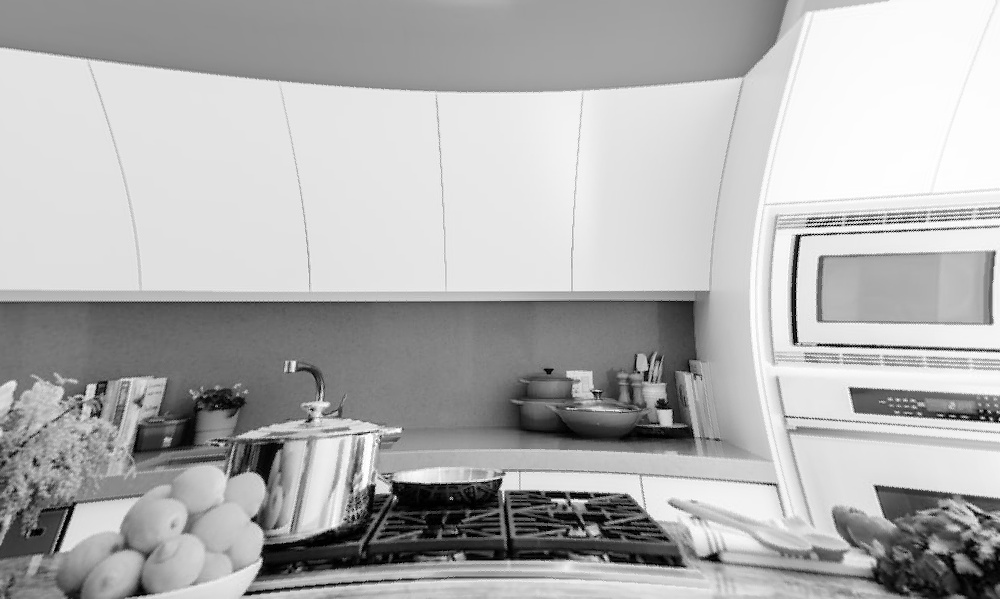
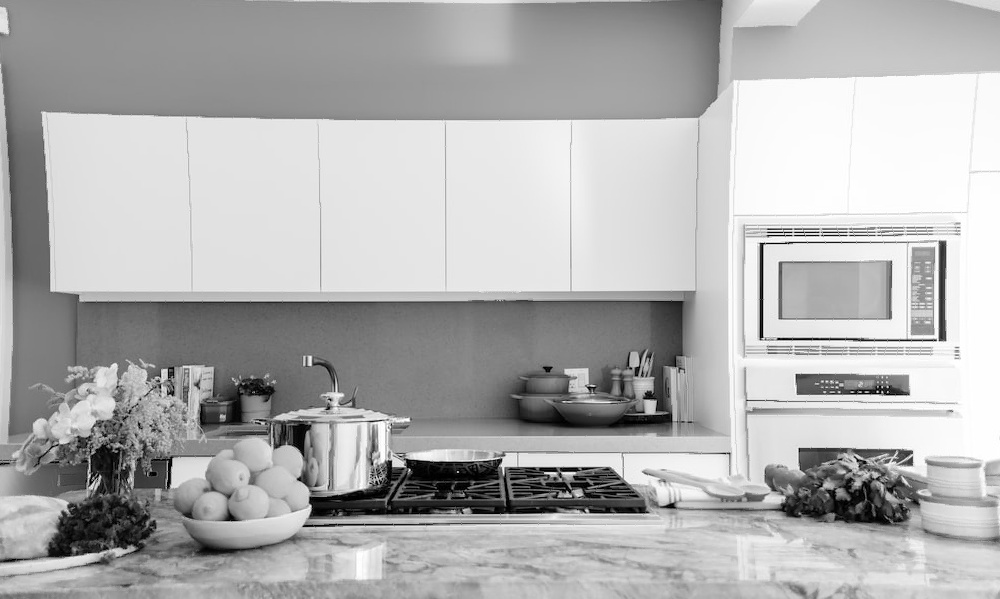
done distortions started last task - stitching images

diff --git a/2lab/src/distortion_custom.py b/2lab/src/distortion_custom.py
@@ -2,7 +2,7 @@ import cv2 as cv
 import numpy as np
 
 img_path = "C:/denFiles/git/technical-vision/2lab/images/"
-img = cv.imread(img_path + "kitchen.jpg", cv.IMREAD_GRAYSCALE)
+img = cv.imread(img_path + "kitchen_distortion_custom.jpg", cv.IMREAD_GRAYSCALE)
 n_rows, n_cols = img.shape[:2]
 
 # Form x,y grid
@@ -15,11 +15,11 @@ x = (x - x_mid) / x_mid
 y = (y - y_mid) / y_mid
 
 # Set linear expansion factor
-b_0 = 1.005
+b_0 = 0.9938
 
 # Convert to polar and do transformation
 r, theta = cv.cartToPolar(x, y)
-F3 = 0.5
+F3 = -0.0515
 r = b_0 * r + F3 * r ** 3
 
 # Undo conversion, normalization and shift
@@ -38,25 +38,25 @@ y = y * y_mid + y_mid
 dist_img = np.zeros_like(img)
 dist_img[v[mask].astype(int), u[mask].astype(int)] = img[y[mask].astype(int), x[mask].astype(int)]
 
-# Find undefined pixels of new image
-undef = np.zeros_like(img)
-undef[v[mask].astype(int), u[mask].astype(int)] = 255  # Undefined pixels corresponds to the black
+# # Find undefined pixels of new image
+# undef = np.zeros_like(img)
+# undef[v[mask].astype(int), u[mask].astype(int)] = 255  # Undefined pixels corresponds to the black
+#
+# # Apply interpolation
+# undef_arr = np.argwhere(undef == 0)  # An array containing undefined pixels
+# for undef_p in undef_arr:
+#     intensities = []
+#     # Construct 3x3 squared punctured area
+#     area = np.array([[undef_p[0] - 1, undef_p[1] - 1], [undef_p[0] - 1, undef_p[1]], [undef_p[0] - 1, undef_p[1] + 1],
+#                      [undef_p[0], undef_p[1] - 1], [undef_p[0], undef_p[1] + 1],
+#                      [undef_p[0] + 1, undef_p[1] - 1], [undef_p[0] + 1, undef_p[1]], [undef_p[0] + 1, undef_p[1] + 1]])
+#     # Find the area average intensities of the defined pixels
+#     for p in area:
+#         if (p[0] >= 0) and (p[0] < n_rows) and (p[1] >= 0) and (p[1] < n_cols) and (undef[p[0], p[1]] == 255):
+#             intensities.append(dist_img[p[0], p[1]])
+#     dist_img[undef_p[0], undef_p[1]] = int(np.mean(intensities))  # Assign the found intensity
 
-# Apply interpolation
-undef_arr = np.argwhere(undef == 0)  # An array containing undefined pixels
-for undef_p in undef_arr:
-    intensities = []
-    # Construct 3x3 squared punctured area
-    area = np.array([[undef_p[0] - 1, undef_p[1] - 1], [undef_p[0] - 1, undef_p[1]], [undef_p[0] - 1, undef_p[1] + 1],
-                     [undef_p[0], undef_p[1] - 1], [undef_p[0], undef_p[1] + 1],
-                     [undef_p[0] + 1, undef_p[1] - 1], [undef_p[0] + 1, undef_p[1]], [undef_p[0] + 1, undef_p[1] + 1]])
-    # Find the area average intensities of the defined pixels
-    for p in area:
-        if (p[0] >= 0) and (p[0] < n_rows) and (p[1] >= 0) and (p[1] < n_cols) and (undef[p[0], p[1]] == 255):
-            intensities.append(dist_img[p[0], p[1]])
-    dist_img[undef_p[0], undef_p[1]] = int(np.mean(intensities))  # Assign the found intensity
-
-cv.imwrite(img_path + "kitchen_distortion_custom.jpg", dist_img)
+cv.imwrite(img_path + "kitchen_distortion_removal_custom.jpg", dist_img)
 cv.imshow("Distortion custom", dist_img)
 cv.waitKey(0)
 cv.destroyAllWindows()

diff --git a/2lab/src/stitch_guitar.py b/2lab/src/stitch_guitar.py
@@ -1,0 +1,38 @@
+import cv2 as cv
+import numpy as np
+
+img_path = "C:/denFiles/git/technical-vision/2lab/images/"
+img_left = cv.imread(img_path + "guitar_left_gray.jpg", cv.IMREAD_GRAYSCALE)
+img_right = cv.imread(img_path + "guitar_right_gray.jpg", cv.IMREAD_GRAYSCALE)
+n_rows, n_cols = img_left.shape[:2]
+
+# Corresponding dots
+a_right = np.array([104, 54])
+b_right = np.array([99, 860])
+c_right = np.array([159, 1000])
+a_left = np.array([871, 252])
+b_left = np.array([819, 993])
+c_left = np.array([888, 1152])
+
+# Find coeffs of the affine transform
+# To translate the left-hand image into the right-hand coordinate system
+x_coeffs = np.matmul(np.linalg.inv([[1, a_left[0], a_left[1]], [1, b_left[0], b_left[1]], [1, c_left[0], c_left[1]]]), np.array([[a_right[0]], [b_right[0]], [c_right[0]]]))
+y_coeffs = np.matmul(np.linalg.inv([[1, a_left[0], a_left[1]], [1, b_left[0], b_left[1]], [1, c_left[0], c_left[1]]]), np.array([[a_right[1]], [b_right[1]], [c_right[1]]]))
+
+# Create grid corresponding to our pixels
+x, y = np.meshgrid(np.arange(n_cols), np.arange(n_rows))
+
+# Calculate all new X and Y coordinates
+x_new = np.round( x_coeffs[1,0] * x + x_coeffs[2,0] * y).astype(np.float32)
+y_new = np.round(y_coeffs[0,0] + y_coeffs[1,0] * x + y_coeffs[2,0] * y).astype(np.float32)
+
+# Calculate mask for valid indices
+mask = np.logical_and(np.logical_and(x_new >= 0, x_new < n_cols), np.logical_and(y_new >= 0, y_new < n_rows))
+
+# Apply reindexing
+new_left_img = np.zeros_like(img_left)
+new_left_img[y_new[mask].astype(int), x_new[mask].astype(int)] = img_left[y[mask], x[mask]]
+
+cv.imshow("New left guitar image", new_left_img)
+cv.waitKey(0)
+cv.destroyAllWindows()

diff --git a/2lab/src/arbitrary_projection_transform.py b/2lab/src/arbitrary_projection_transform.py
@@ -2,21 +2,21 @@ import cv2 as cv
 import numpy as np
 
 img_path = "C:/denFiles/git/technical-vision/2lab/images/"
-img = cv.imread(img_path + "winter_small.jpg", cv.IMREAD_GRAYSCALE)
+img = cv.imread(img_path + "guitar_left_gray.jpg", cv.IMREAD_GRAYSCALE)
 n_rows, n_cols = img.shape[:2]
 
 # Set the transformation matrix
 # T = np.float32([[1.65, 0.3, 0], [0.2, 1.7, 0], [0.001, 0.003, 1]])
 
 # or using builtin func
-pts_src = np.float32([[50, 461], [461, 461], [461, 50], [50, 50]])
-pts_dst = np.float32([[50, 461], [461, 440], [450, 10], [100, 50]])
+pts_src = np.float32([[775, 881], [871, 252], [888, 1152], [958, 1058]])
+pts_dst = np.float32([[58, 753], [104, 54], [159, 1000], [239, 892]])
 T = cv.getPerspectiveTransform(pts_src, pts_dst)
 
 # Apply the transformation
 new_img = cv.warpPerspective(img, T, (n_cols, n_rows))
 
-cv.imwrite(img_path + "arbitrary_proj_winter.jpg", new_img)
+# cv.imwrite(img_path + "arbitrary_proj_winter.jpg", new_img)
 cv.imshow("Arbitrary projective transform", new_img)
 cv.waitKey(0)
 cv.destroyAllWindows()

diff --git a/2lab/src/test.py b/2lab/src/test.py
@@ -2,26 +2,6 @@ import cv2 as cv
 import numpy as np
 
 img_path = "C:/denFiles/git/technical-vision/2lab/images/"
-img = cv.imread(img_path + "rowan.jpg", cv.IMREAD_GRAYSCALE)
-n_rows, n_cols = img.shape[:2]
+img = cv.imread(img_path + "guitar_left.jpg", cv.IMREAD_GRAYSCALE)
 
-# Form x,y grid
-x, y = np.meshgrid(np.arange(n_cols), np.arange(n_rows))
-
-x_new_custom = x ** 2
-y_new_custom = y
-
-x_new_remap = x ** 0.5
-y_new_remap = y
-
-mask = np.logical_and(np.logical_and(x_new_custom >= 0, x_new_custom < n_cols), np.logical_and(y_new_custom >= 0, y_new_custom < n_rows))
-
-new_img_custom = np.zeros_like(img)
-new_img_custom[y_new_custom[mask].astype(int), x_new_custom[mask].astype(int)] = img[y[mask], x[mask]]
-
-new_img_remap = cv.remap(img, x_new_remap.astype(np.float32), y_new_remap.astype(np.float32), interpolation=None)
-
-cv.imshow("manual", new_img_custom)
-cv.imshow("remap", new_img_remap)
-cv.waitKey(0)
-cv.destroyAllWindows()
+cv.imwrite(img_path + "guitar_left_gray.jpg", img)

diff --git a/2lab/src/arbitrary_affine.py b/2lab/src/arbitrary_affine.py
@@ -2,12 +2,12 @@ import cv2 as cv
 import numpy as np
 
 img_path = "C:/denFiles/git/technical-vision/2lab/images/"
-img = cv.imread(img_path + "winter_small.jpg", cv.IMREAD_GRAYSCALE)
+img = cv.imread(img_path + "guitar_left_gray.jpg", cv.IMREAD_GRAYSCALE)
 n_rows, n_cols = img.shape[:2]
 
 # Set points
-pts_src = np.float32([[0, 0], [10, 0], [5, 5]])
-pts_dst = np.float32([[0.4, 1.4], [7, 3], [4, 6]])
+pts_src = np.float32([[775, 881], [819, 993], [888, 1152]])
+pts_dst = np.float32([[58, 753], [99, 860], [159, 1000]])
 
 # Get the transformation matrix
 T = cv.getAffineTransform(pts_src, pts_dst)
@@ -15,7 +15,7 @@ T = cv.getAffineTransform(pts_src, pts_dst)
 # Apply transformation
 new_img = cv.warpAffine(img, T, (n_cols, n_rows))
 
-cv.imwrite(img_path + "arbit_aff_winter.jpg", new_img)
+# cv.imwrite(img_path + "arbit_aff_winter.jpg", new_img)
 cv.imshow("Arbitrary affine transform", new_img)
 cv.waitKey(0)
 cv.destroyAllWindows()

diff --git a/2lab/src/distortion_remap.py b/2lab/src/distortion_remap.py
@@ -30,7 +30,16 @@ v = v * y_mid + y_mid
 # Do remapping
 dist_img = cv.remap(img, u.astype(np.float32), v.astype(np.float32), cv.INTER_LINEAR)
 
+# Distortion removal
+dr_r, dr_theta = cv.cartToPolar((u - x_mid) / x_mid, (v - y_mid) / y_mid)
+dr_r_new = dr_r*b_0 + F3*dr_r**3
+dr_u, dr_v = cv.polarToCart(dr_r_new, dr_theta)
+dr_u = dr_u * x_mid + x_mid
+dr_v = dr_v * y_mid + y_mid
+dist_rm_img = cv.remap(img, dr_u.astype(np.float32), dr_v.astype(np.float32), cv.INTER_LINEAR)
+
 cv.imwrite(img_path + "kitchen_distortion_remap.jpg", dist_img)
+cv.imshow("Distortion removal", dist_rm_img)
 cv.imshow("Distortion remap", dist_img)
 cv.waitKey(0)
 cv.destroyAllWindows()
